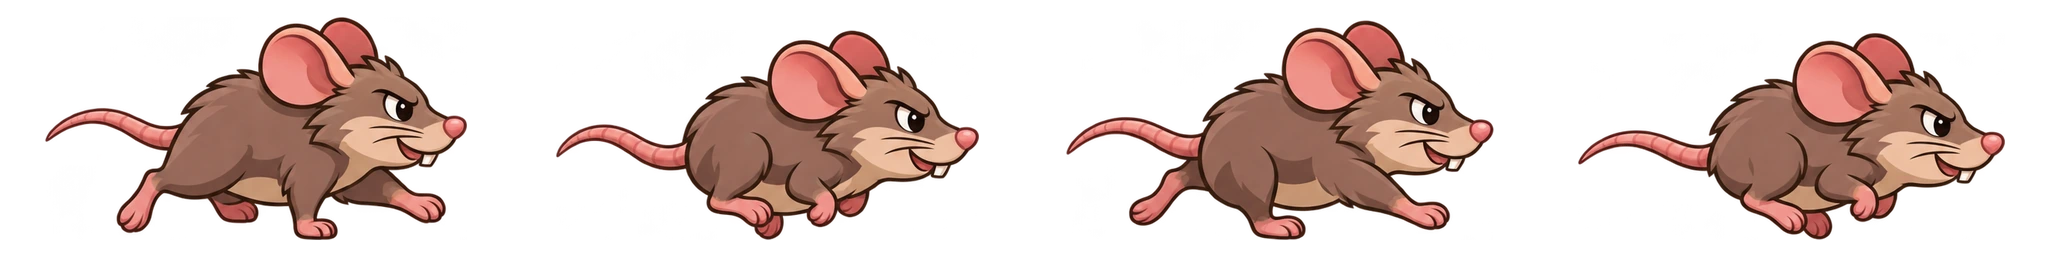
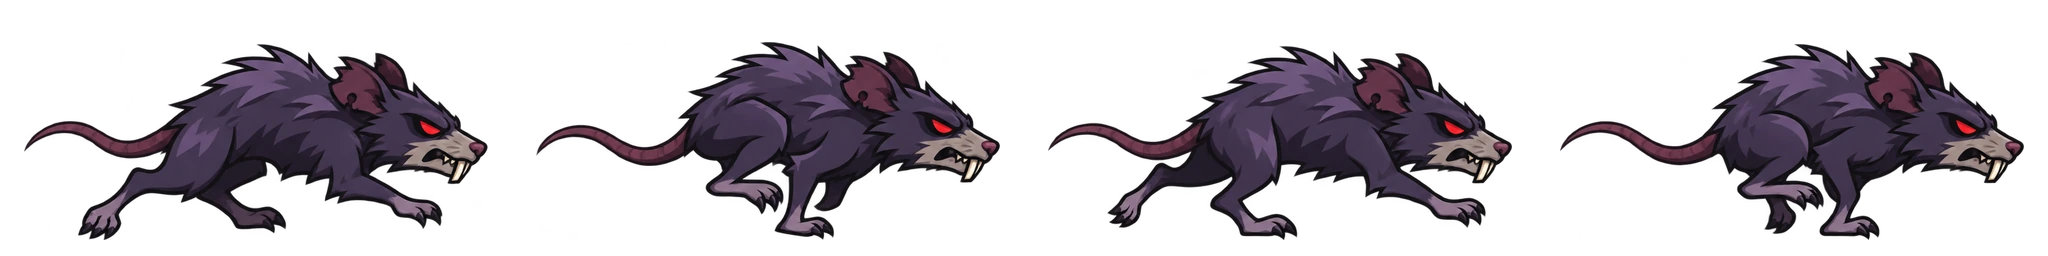
Make rats hostile and distinct against the sunny village

diff --git a/src/game/entities/Rat.ts b/src/game/entities/Rat.ts
@@ -9,10 +9,10 @@ export class Rat extends Phaser.Physics.Arcade.Sprite {
   constructor(scene: Phaser.Scene, private route: RatRoute) {
     super(scene, route.x, groundY(route.x), 'rat', 0);
     scene.add.existing(this); scene.physics.add.existing(this);
-    this.setOrigin(.5, 240 / 256).setScale(.18).setDepth(25);
+    this.setOrigin(.5, 240 / 256).setScale(.22).setDepth(25);
     const body = this.body as Phaser.Physics.Arcade.Body;
     body.setAllowGravity(false); body.moves = false;
-    this.setSize(280, 132).setOffset(40, 108);
+    this.setSize(280, 174).setOffset(40, 66);
     this.update(0);
   }
   update(delta: number) {
@@ -21,7 +21,7 @@ export class Rat extends Phaser.Physics.Arcade.Sprite {
     const dx = this.direction * this.route.speed * Math.min(delta, 50) / 1000;
     this.setPosition(this.x + dx, groundY(this.x + dx));
     this.setFlipX(this.direction < 0);
-    this.setOffset(this.direction < 0 ? 40 : 192, 108);
+    this.setOffset(this.direction < 0 ? 40 : 192, 66);
     this.distance += Math.abs(dx);
     this.setFrame(Math.floor(this.distance / 9) % 4);
     (this.body as Phaser.Physics.Arcade.Body).updateFromGameObject();

diff --git a/README.md b/README.md
@@ -107,7 +107,10 @@ Arcade Physics; это позволяет ходить по склону без 
 не обязательно: крысу можно перепрыгнуть.
 
 `rat-run.webp` — прозрачный атлас из четырёх нормализованных кадров 512×256,
-созданный генерацией изображений. Это иллюстрации в стиле окружения,
+созданный генерацией изображений. Крысы тёмные, холодного фиолетового оттенка,
+с красными глазами, оскалом и взъерошенной шерстью: их силуэт контрастирует
+с тёплыми домами и зеленью. Масштаб увеличен с 0.18 до 0.22.
+Это иллюстрации в стиле окружения,
 а не Phaser Graphics. Смена кадров привязана к пройденному расстоянию.
 При поражении крыса сжимается и исчезает. Исходный запрос сохранён рядом
 в `rat-run.prompt.txt`. Новых зависимостей нет.
